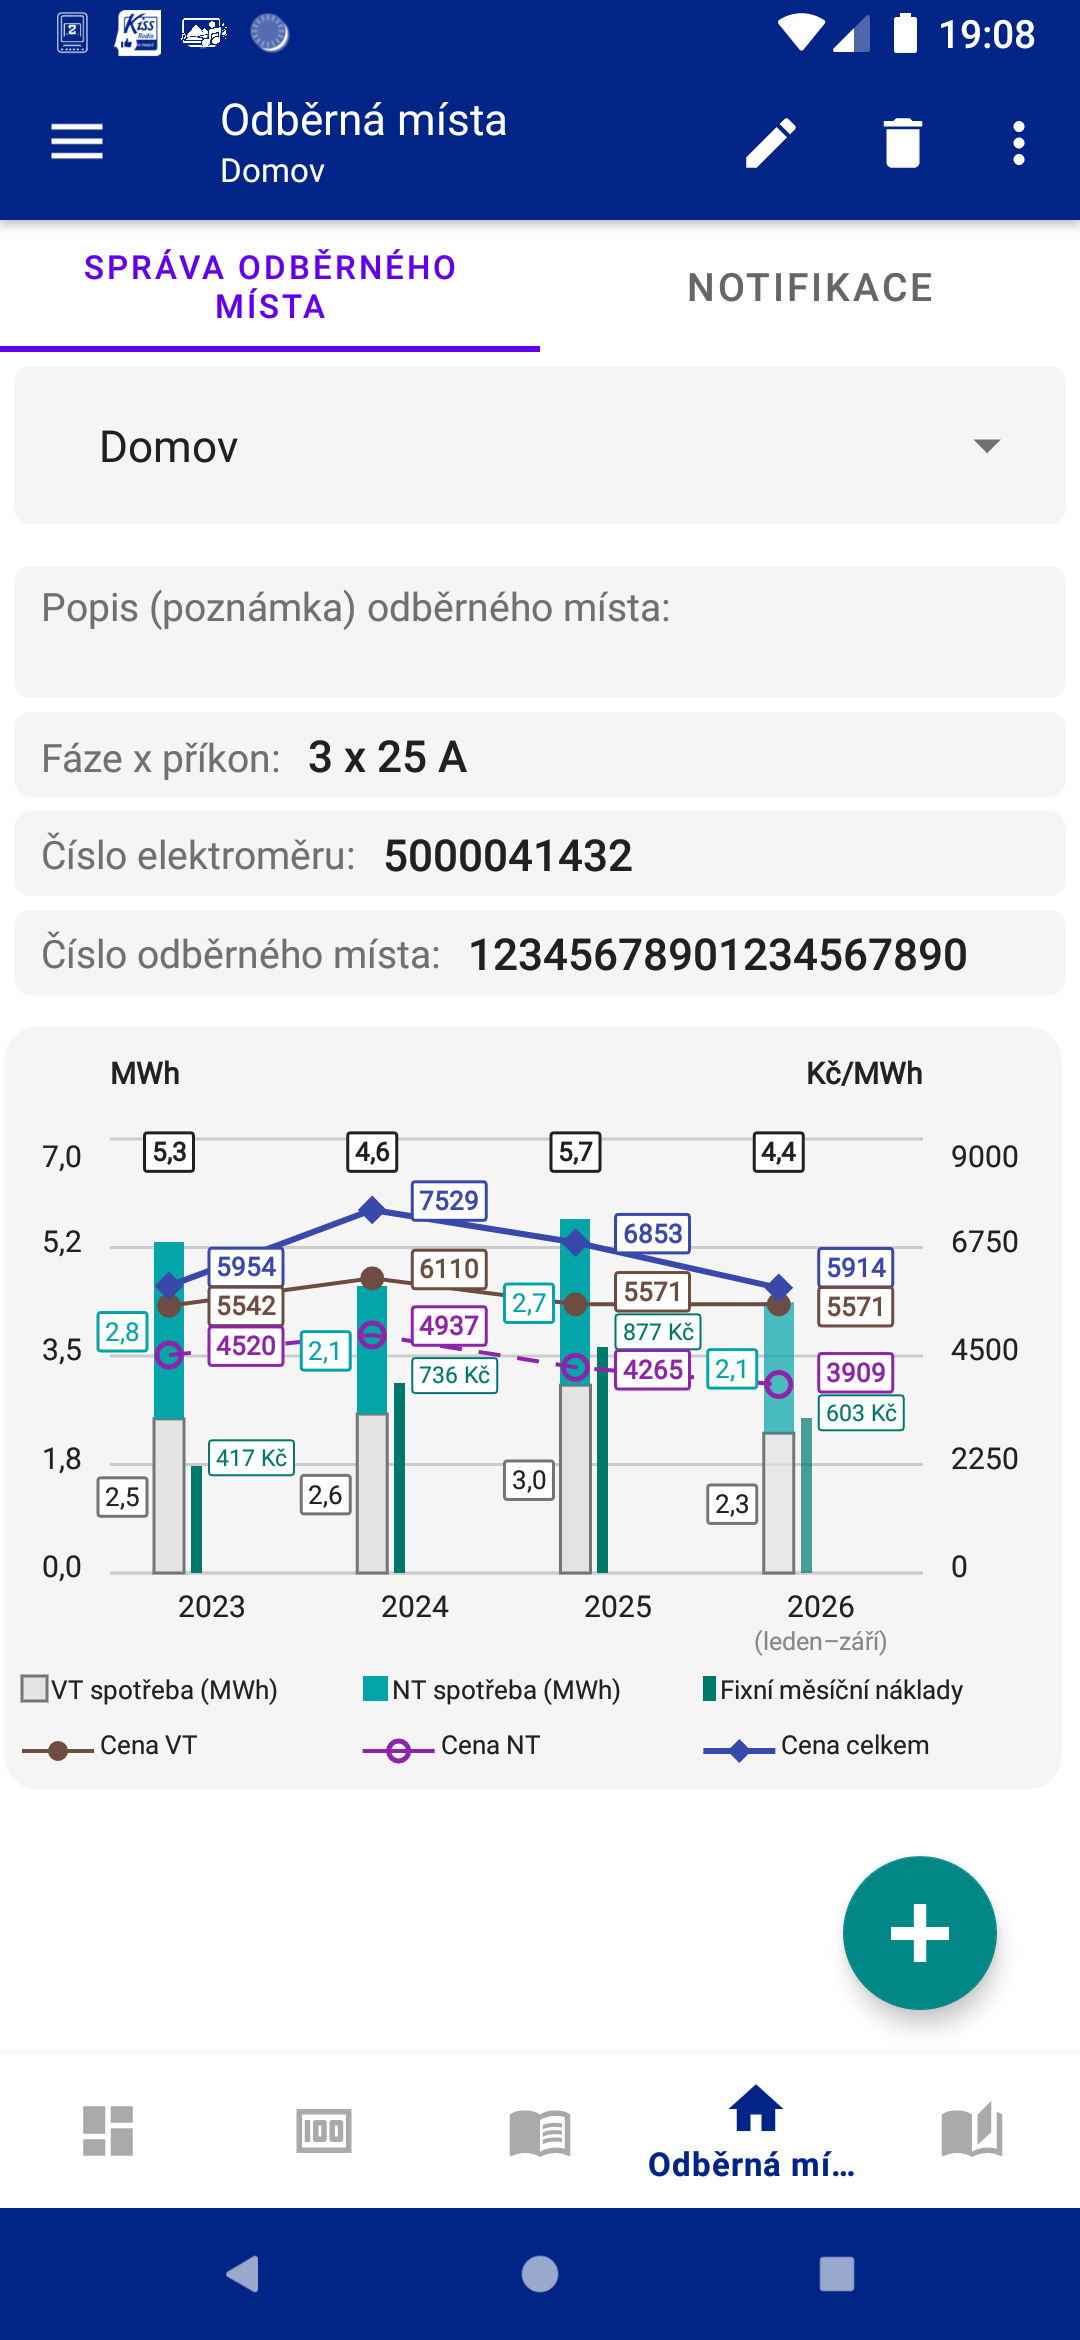
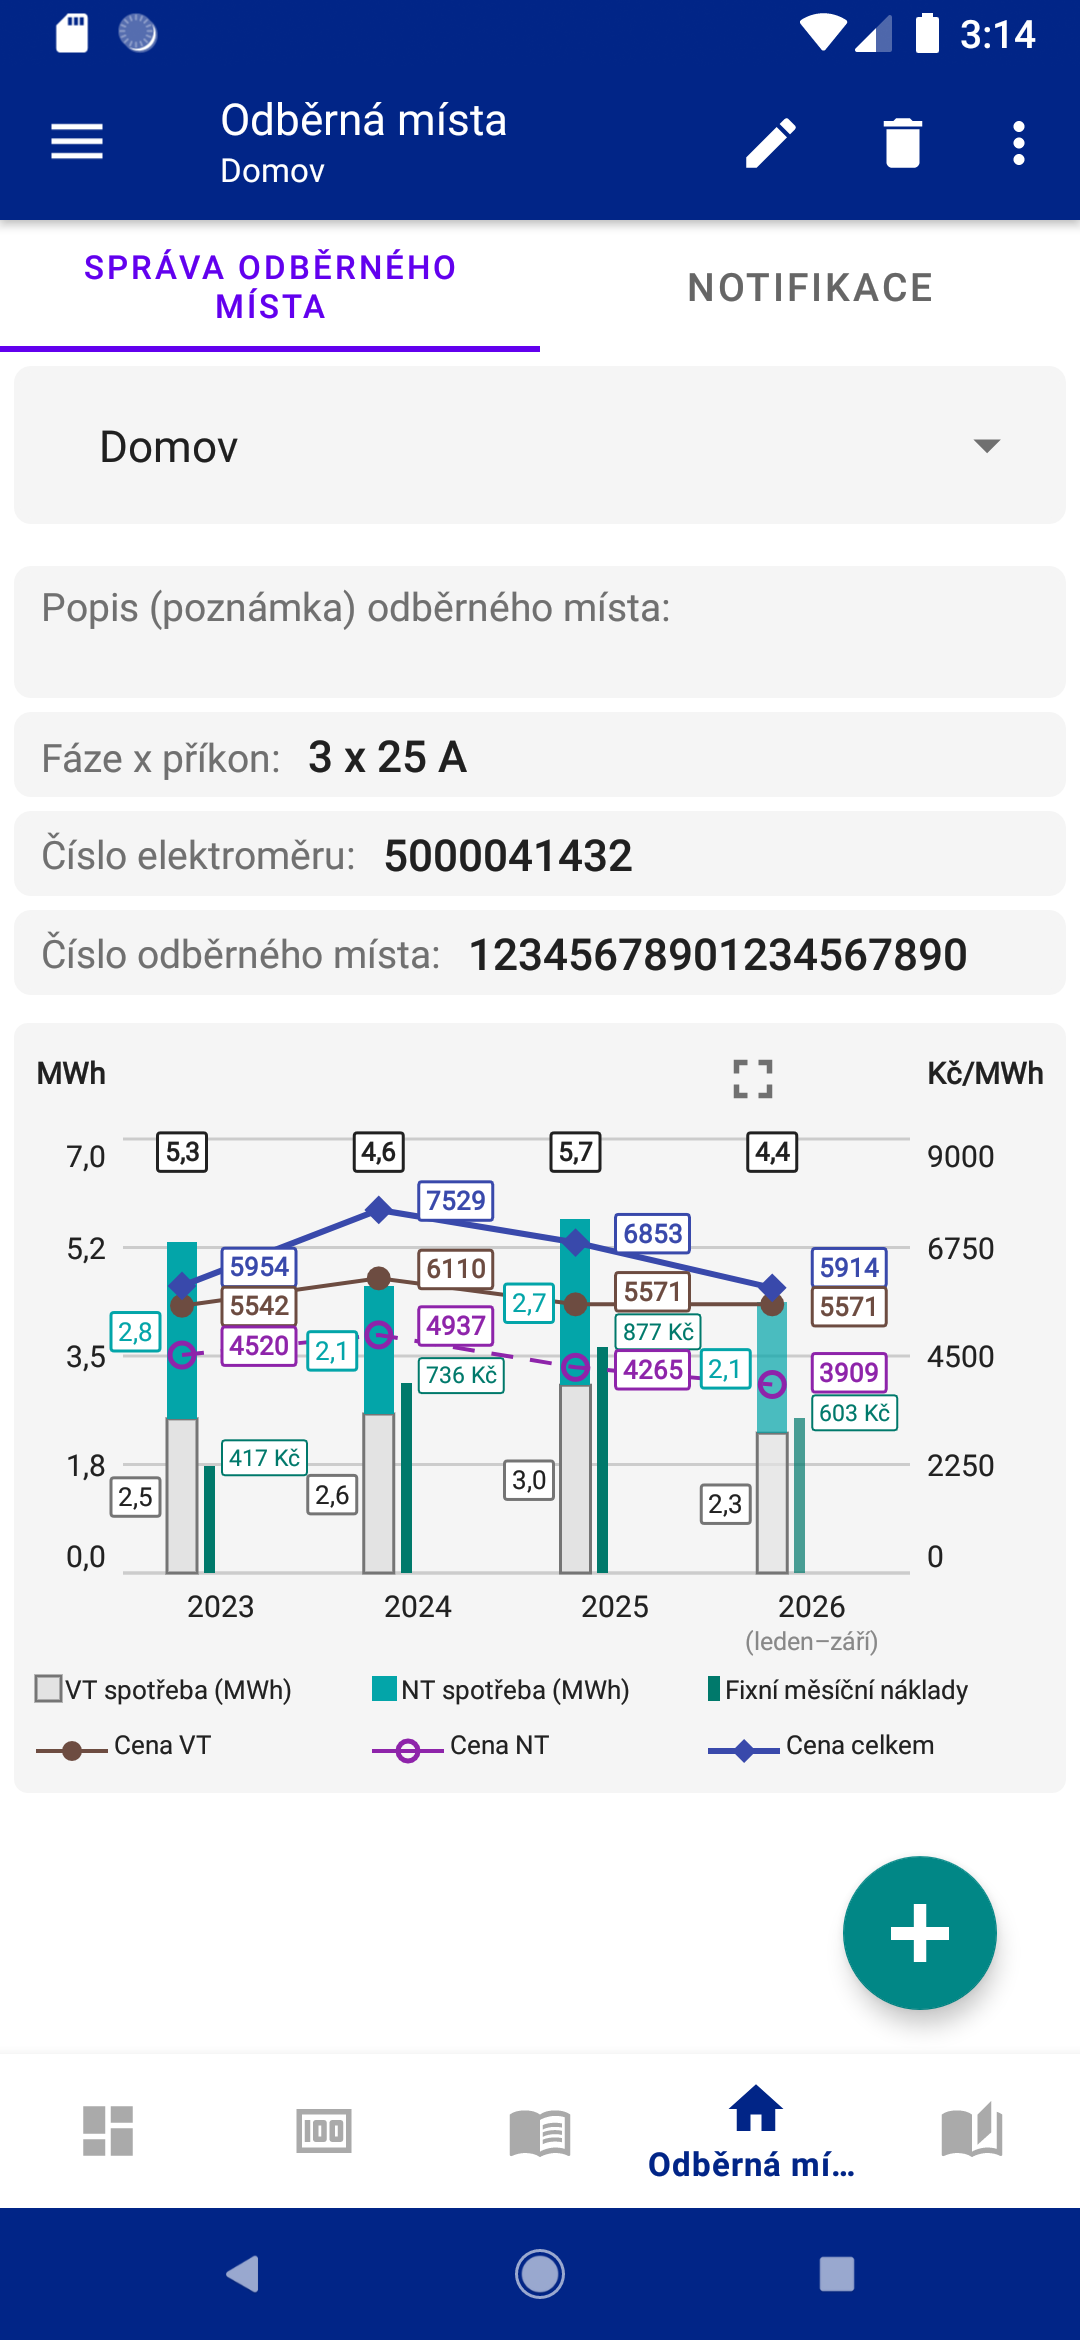
Dokumentace: doplnění nového snímku obrazovky aplikace
- README.md: přidání zobrazení nového snímku obrazovky odb_5.png
- screenshots/odb_4.png: nahrazení novou verzí snímku obrazovky
- screenshots/odb_5.png: vložení nového souboru snímku obrazovky

diff --git a/README.md b/README.md
@@ -104,6 +104,10 @@ zejména oprávnění pro notifikace a přesné alarmy.
   <img src="screenshots/odb_4.png" width="300" />
 </p>
 
+<p align="center">
+  <img src="screenshots/odb_5.png" height="300" />
+</p>
+
 ## Ceník
 
 Ceník je důležitou součástí výpočtu v aplikaci. Nesprávně nastavený ceník může způsobit výraznou odchylku ve výpočtech, proto je jeho vytvoření v aplikaci co nejvíce zjednodušeno.
